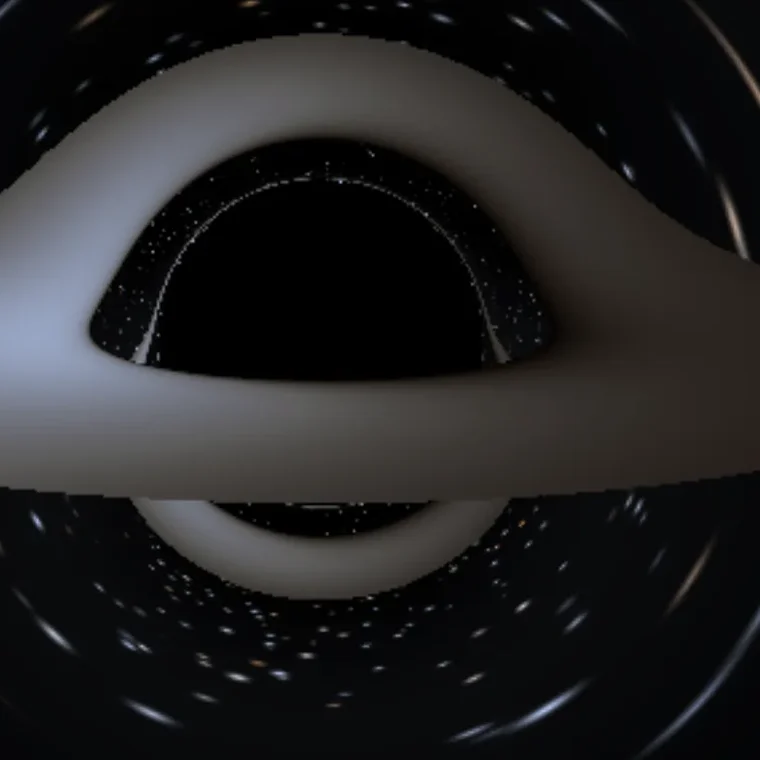
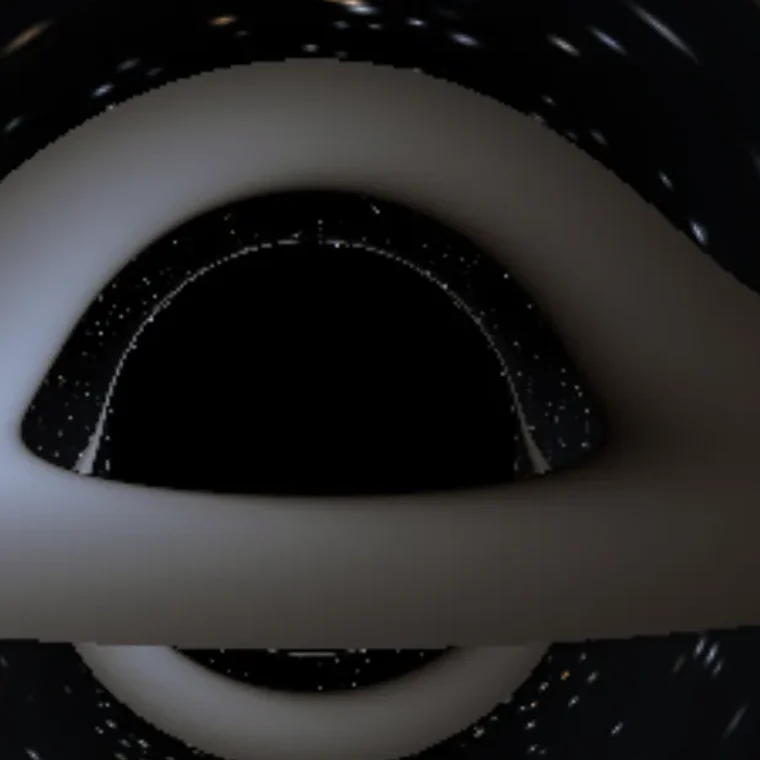
Featured work on About, and three tiles cropped again
About ends with the bench: Quantize, Machina, Aero and the Gengar shoes, each
carrying whether it is being built or just finished, each opening the way it
does from the gallery. The list was already in content.ts and had gone unused
since the paper landing page went.

Three crops were wrong. Kumi showed cards with no application around them, so
it now opens on the sidebar and the header. HF-SCF showed the foot of its
window, so it is down to the molecule alone. The black hole was off centre and
is now squared on the shadow and its photon ring.

Two of those three leads are not 1600x1000 — Kumi is 1440x900, the black hole
1500x937 — which is what put the first pair of boxes off. The generator now
measures the image and says which box ran off which edge, rather than letting
sharp fail with 'bad extract area'.

diff --git a/components/signs/about.tsx b/components/signs/about.tsx
@@ -1,15 +1,34 @@
 'use client';
 
 import { useEffect, useRef, useState } from 'react';
-import { ABOUT, CONTACTS } from './content';
+import { ABOUT, CONTACTS, PROJECT_GROUPS, RECENT, type Card } from './content';
 import { TopBar } from './topbar';
+
+const base = () => (typeof window !== 'undefined' && window.__SIGNS_BASE) || '';
 
 /**
  * About: the whole thing set large, one sentence at a time. Only the line you
  * are reading is in ink — the rest sit back in grey and come forward as you
  * scroll onto them.
  */
-export function About({ onHome }: { onHome: () => void }) {
+/** The bench, resolved against the project list so a tile carries its real title. */
+type Feature = { key: string; title: string; status: string; image: string; card?: Card };
+const ALL: Card[] = PROJECT_GROUPS.flatMap((g) => g.cards);
+const FEATURED: Feature[] = RECENT.flatMap((r) => {
+  if (r.kind === 'art') return [{ key: r.image, title: r.title, status: r.status, image: r.image }];
+  const card = ALL.find((c) => c.id === r.id);
+  return card ? [{ key: r.id, title: card.title, status: r.status, image: `/tiles/${r.id}.webp`, card }] : [];
+});
+
+export function About({
+  onHome,
+  onOpenProject,
+  onOpenArt,
+}: {
+  onHome: () => void;
+  onOpenProject: (c: Card) => void;
+  onOpenArt: (v: { image: string; caption: string; materials?: string[] }) => void;
+}) {
   const [active, setActive] = useState(0);
   const root = useRef<HTMLDivElement>(null);
   const lines = useRef<(HTMLParagraphElement | null)[]>([]);
@@ -63,6 +82,35 @@ export function About({ onHome }: { onHome: () => void }) {
           </p>
         ))}
       </div>
+      <section className="ab2-featured">
+        <h2 className="hm-work-title">Featured work</h2>
+        <p className="hm-work-sub">What is on the bench right now</p>
+        <ul className="hm-grid ab2-grid">
+          {FEATURED.map((f) => (
+            <li key={f.key}>
+              <button
+                type="button"
+                aria-label={`Open ${f.title}`}
+                onClick={() =>
+                  f.card
+                    ? onOpenProject(f.card)
+                    : onOpenArt({ image: f.image, caption: f.title, materials: undefined })
+                }
+              >
+                <span className="hm-tile">
+                  {/* eslint-disable-next-line @next/next/no-img-element */}
+                  <img src={base() + f.image} alt="" loading="lazy" draggable={false} />
+                </span>
+                <span className="hm-tile-text">
+                  <span className="hm-tile-name">{f.title}</span>
+                  <span className="hm-tile-line">{f.status}</span>
+                </span>
+              </button>
+            </li>
+          ))}
+        </ul>
+      </section>
+
       <footer className="hm-foot">
         <h2 className="hm-work-title">Contact</h2>
         <ul className="hm-contacts">

diff --git a/components/signs/signs.css b/components/signs/signs.css
@@ -1409,3 +1409,13 @@ a.ch-sign:focus-visible .ch-content { outline: 3px dashed var(--ink); outline-of
 }
 .hm-foot-line a:hover { border-color: var(--ink); }
 .hm-foot-line a:focus-visible { outline: 2px solid var(--ink); outline-offset: 3px; }
+
+/* ---- About: what is on the bench, under the writing ---- */
+.ab2-featured { padding-top: clamp(30px, 6vh, 70px); }
+.ab2-grid {
+  grid-template-columns: repeat(4, 1fr);
+  max-width: 1000px;
+}
+@media (max-width: 900px) {
+  .ab2-grid { grid-template-columns: repeat(2, 1fr); }
+}

diff --git a/components/signs/signs.tsx b/components/signs/signs.tsx
@@ -158,7 +158,7 @@ export default function Signs() {
 
           {route.page === 'contact' && <Contact onBack={goHome} />}
 
-          {route.page === 'about' && <About onHome={goHome} />}
+          {route.page === 'about' && <About onHome={goHome} onOpenProject={setProject} onOpenArt={setLightbox} />}
         </motion.section>
       </AnimatePresence>
 
